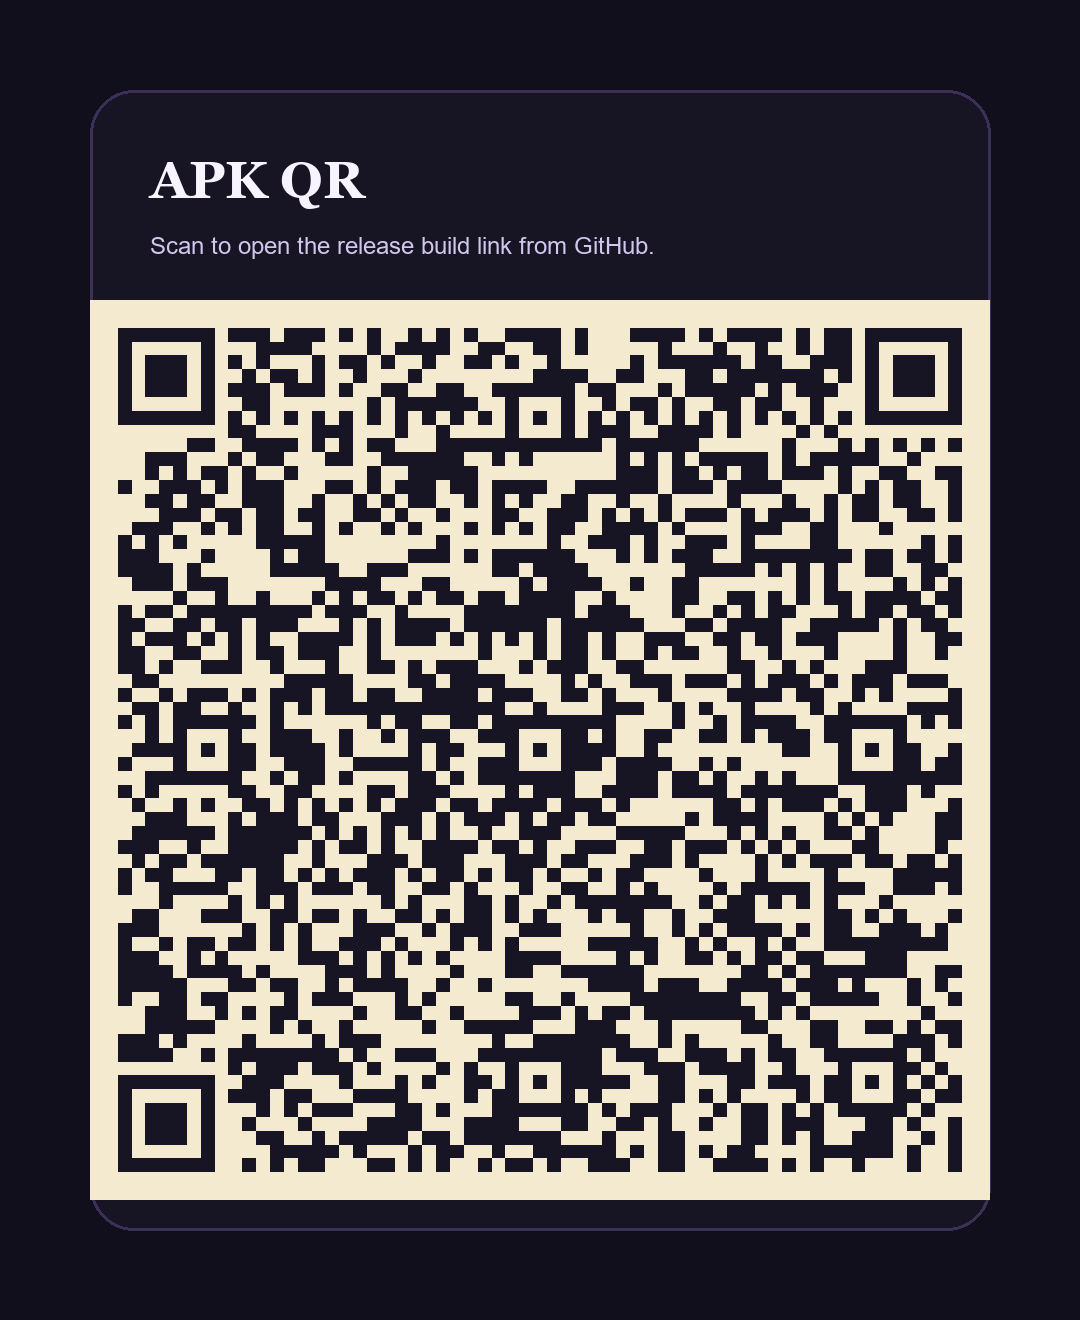
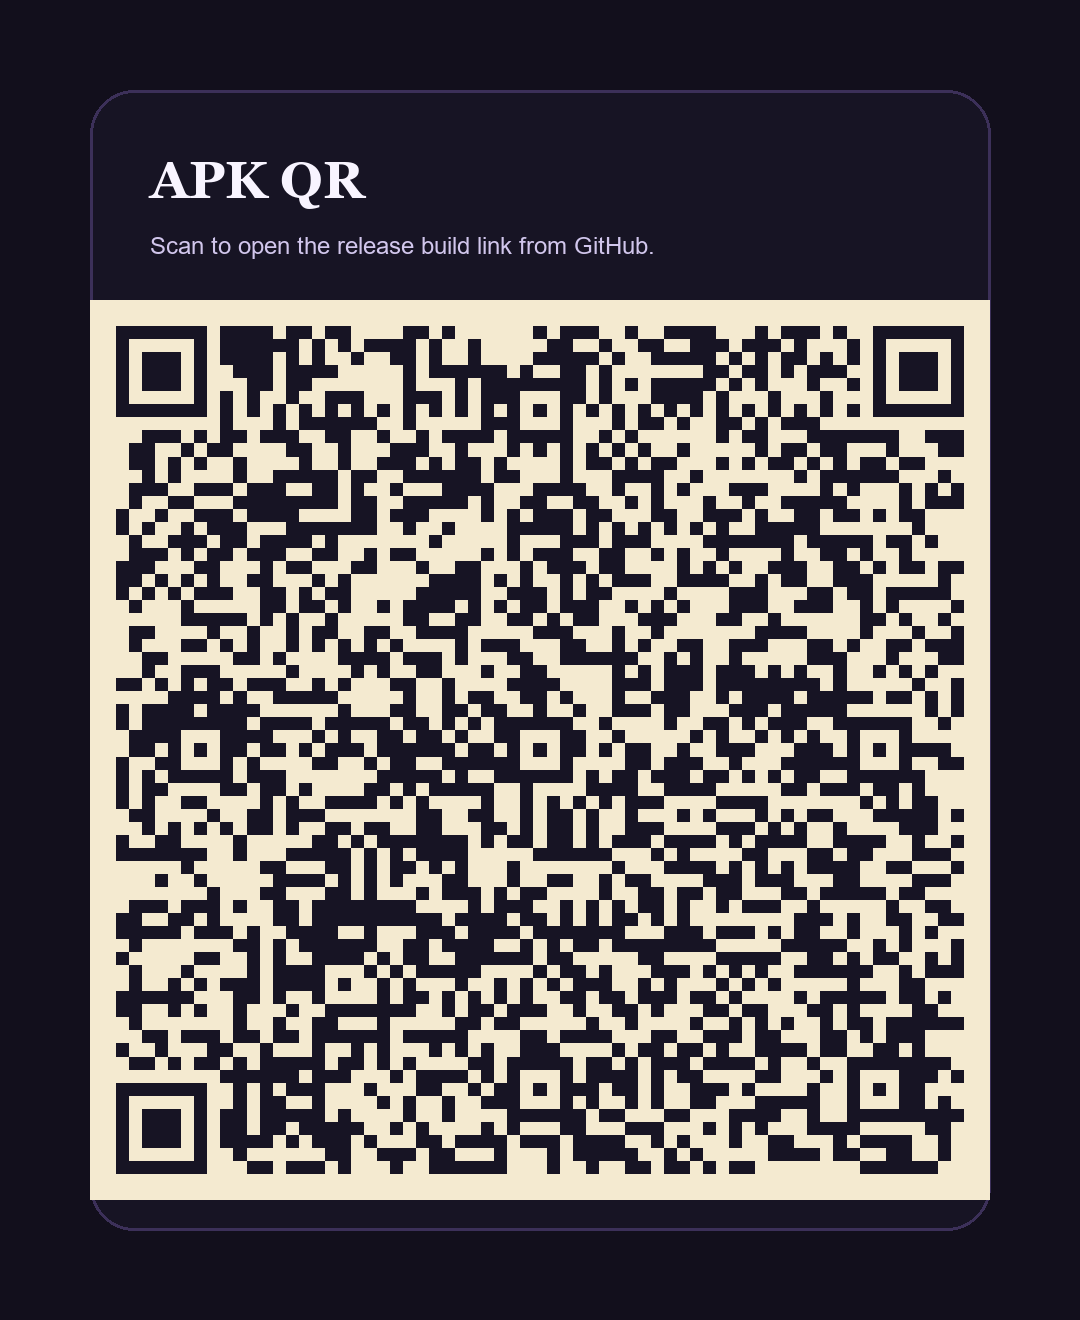
fix(submission): correct fork links in assets

Changed region(s): [[0.0917, 0.2485, 0.9167, 0.9008]]

diff --git a/submissions/231118040-specforge/make_demo_assets.py b/submissions/231118040-specforge/make_demo_assets.py
@@ -15,9 +15,9 @@ OUTPUT_POSTER = ROOT / "demo-poster.png"
 FPS = 6
 CANVAS_SIZE = (720, 1280)
 CARD_RECT = (76, 280, 644, 1138)
-BRANCH = "implement/231118040-track1-specforge"
+BRANCH = "implement/231118040-track1-specforge-v2"
 APK_LINK = (
-    "https://github.com/mehmetalisahingm/nokta/blob/"
+    "https://github.com/mehmetalisahingm/nokta-seyyah/blob/"
     f"{BRANCH}/submissions/231118040-specforge/app-release.apk?raw=1"
 )
 

diff --git a/submissions/231118040-specforge/README.md b/submissions/231118040-specforge/README.md
@@ -9,9 +9,9 @@ Raw idea intake from text or voice transcript, AI-guided interview with 5 engine
 ## Links
 
 - Expo QR / APK install link: [app-release.apk](./app-release.apk)
-- Direct GitHub APK link: [SpecForge APK](https://github.com/mehmetalisahingm/nokta/blob/implement/231118040-track1-specforge/submissions/231118040-specforge/app-release.apk?raw=1)
+- Direct GitHub APK link: [SpecForge APK](https://github.com/mehmetalisahingm/nokta-seyyah/blob/implement/231118040-track1-specforge-v2/submissions/231118040-specforge/app-release.apk?raw=1)
 - 60-second demo video: [demo.mp4](./demo.mp4)
-- Direct GitHub demo link: [SpecForge demo](https://github.com/mehmetalisahingm/nokta/blob/implement/231118040-track1-specforge/submissions/231118040-specforge/demo.mp4?raw=1)
+- Direct GitHub demo link: [SpecForge demo](https://github.com/mehmetalisahingm/nokta-seyyah/blob/implement/231118040-track1-specforge-v2/submissions/231118040-specforge/demo.mp4?raw=1)
 - Demo poster: [demo-poster.png](./demo-poster.png)
 
 ## QR Code
@@ -47,4 +47,3 @@ The experience has three stages:
 - [app-release.apk](./app-release.apk)
 - [demo.mp4](./demo.mp4)
 - [expo-qr.png](./expo-qr.png)
-
